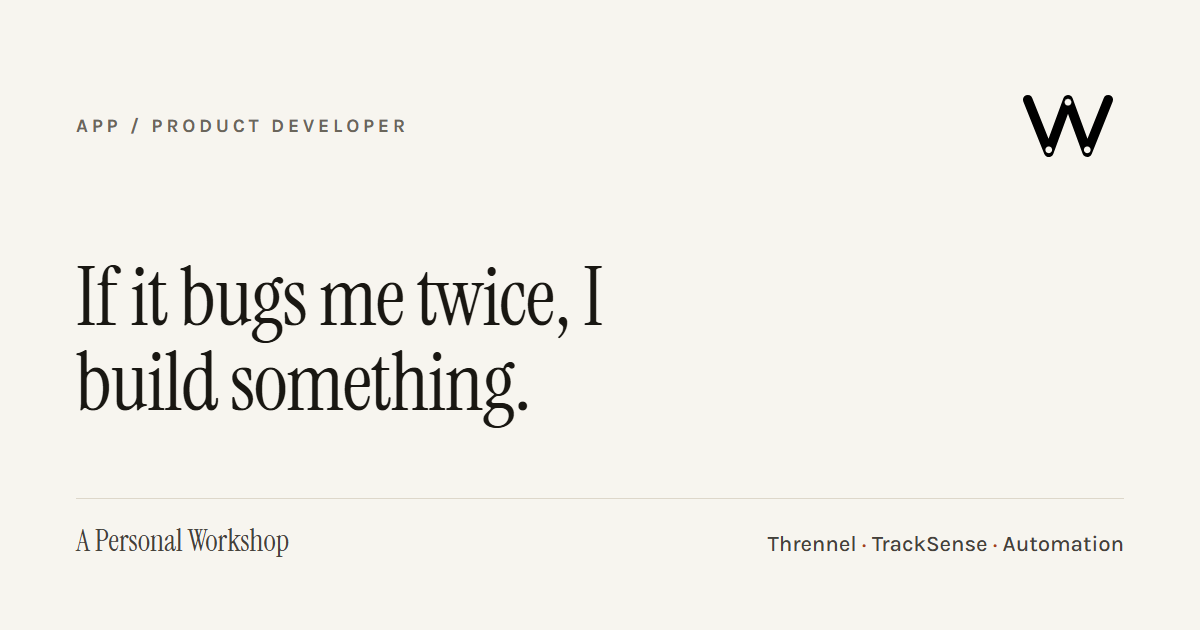
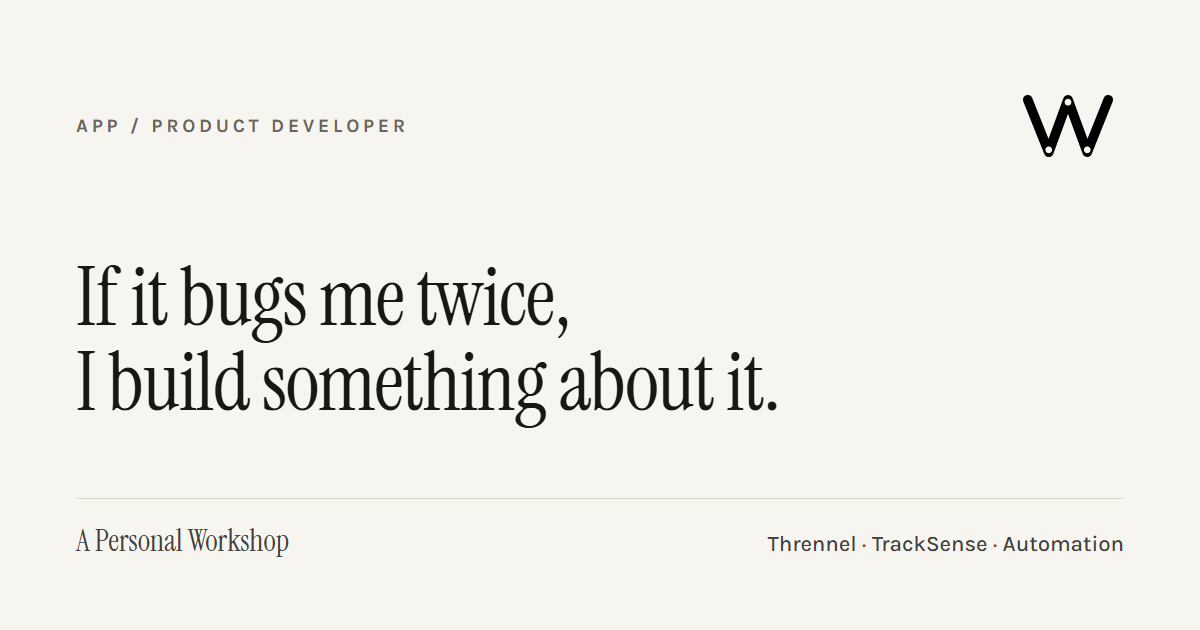
Headline: "I build something about it."
Updated in the hero, the preview-image alt text, and the rendered
preview image.

Changed region(s): [[0.0617, 0.5429, 0.6475, 0.6937], [0.4933, 0.4222, 0.5242, 0.5127]]

diff --git a/public/index.html b/public/index.html
@@ -17,7 +17,7 @@
 <meta property="og:image" content="https://bugsmetwice.com/og-image.png">
 <meta property="og:image:width" content="1200">
 <meta property="og:image:height" content="630">
-<meta property="og:image:alt" content="A Personal Workshop — If it bugs me twice, I build something.">
+<meta property="og:image:alt" content="A Personal Workshop — If it bugs me twice, I build something about it.">
 <meta name="twitter:card" content="summary_large_image">
 
 <link rel="icon" href="./mark-rule_2.svg" type="image/svg+xml">
@@ -540,7 +540,7 @@ dialog.appwin .band { padding-top: clamp(24px, 3vw, 40px); }
   <section class="hero reveal">
     <div class="hero__text">
       <span class="kicker">App/Product Developer</span>
-      <h1>If it bugs me twice, I build something.</h1>
+      <h1>If it bugs me twice, I build something about it.</h1>
       <p class="hero__lede">Each one started as a small annoyance. Now it's a tool I actually use.</p>
       <div class="hero__cta">
         <a class="btn" href="#thrennel">Get early access to Thrennel</a>
